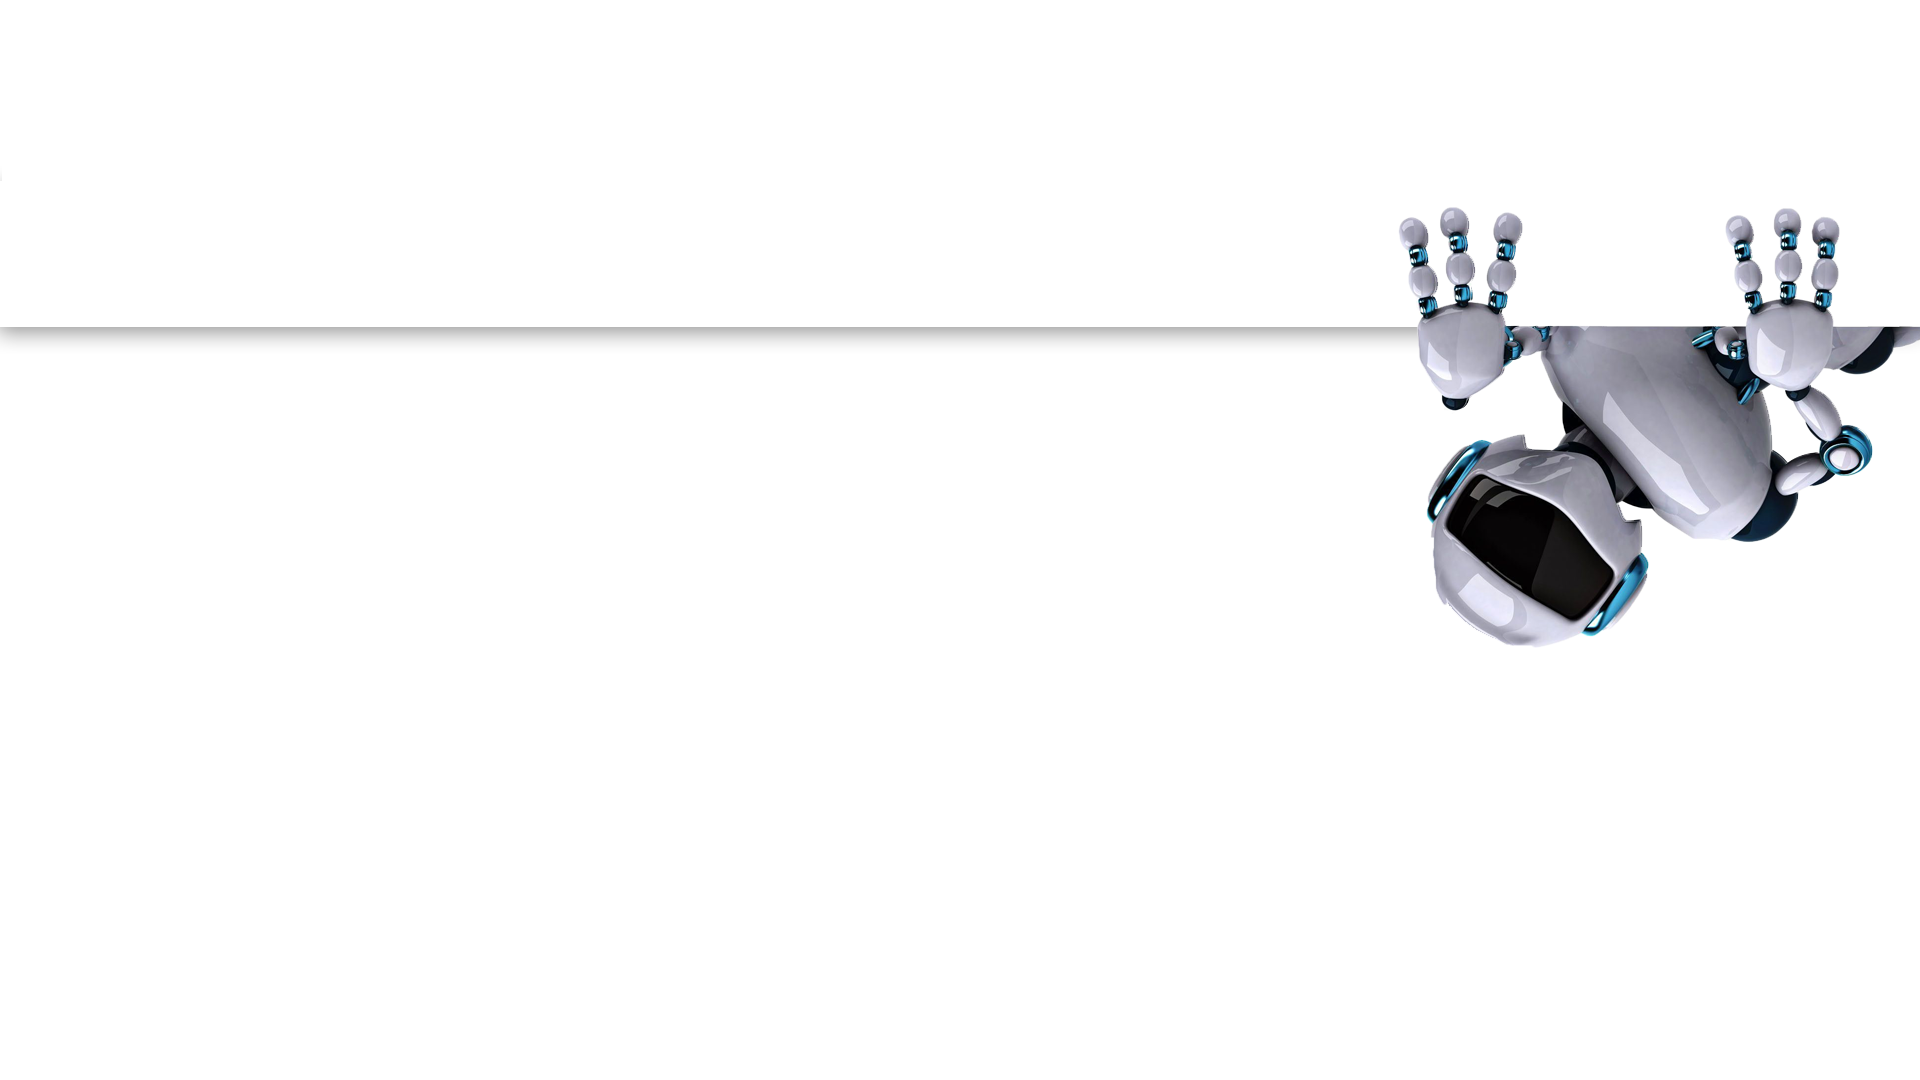
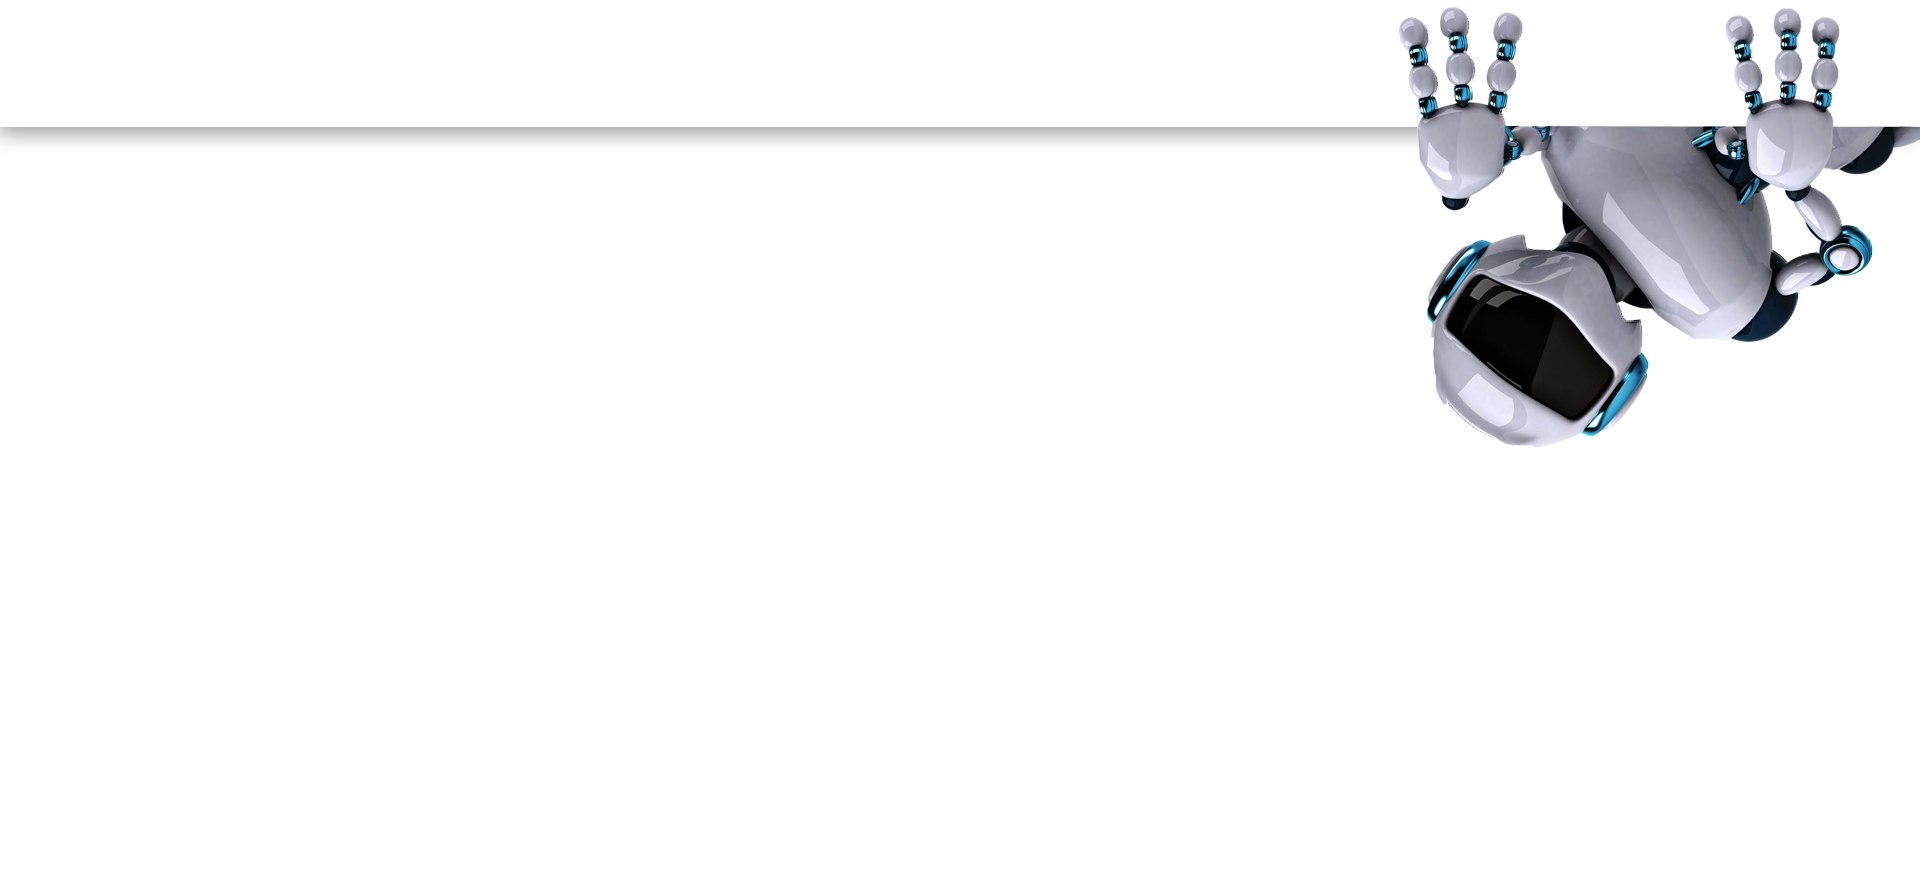
kukuk

Changed region(s): [[0.0, 0.0, 1.0, 0.6136]]

diff --git a/hci.css b/hci.css
@@ -174,7 +174,7 @@ img {
 
 #robot{
 
-    top: -2vh;
+    top: 5vh;
 
     position: absolute;
 
@@ -208,7 +208,8 @@ img {
 
     background-color:transparent;
 
-    width: 100vmax;
+    width: 100vw;
+    height: 10vh;
 
     top: 0vh;
 
@@ -233,20 +234,13 @@ img {
 .navbar a {
 
     float: left;
-
     font-size: 2vw;
-
     color: darkgrey;
-
     text-align: center;
-
     width: 20vw;
-
-    padding: 2vw;
-
+    padding: 2vw 0vw;
     text-decoration: none;
-
-    z-index: 5;
+    z-index: 1500003;
 
 }
 
